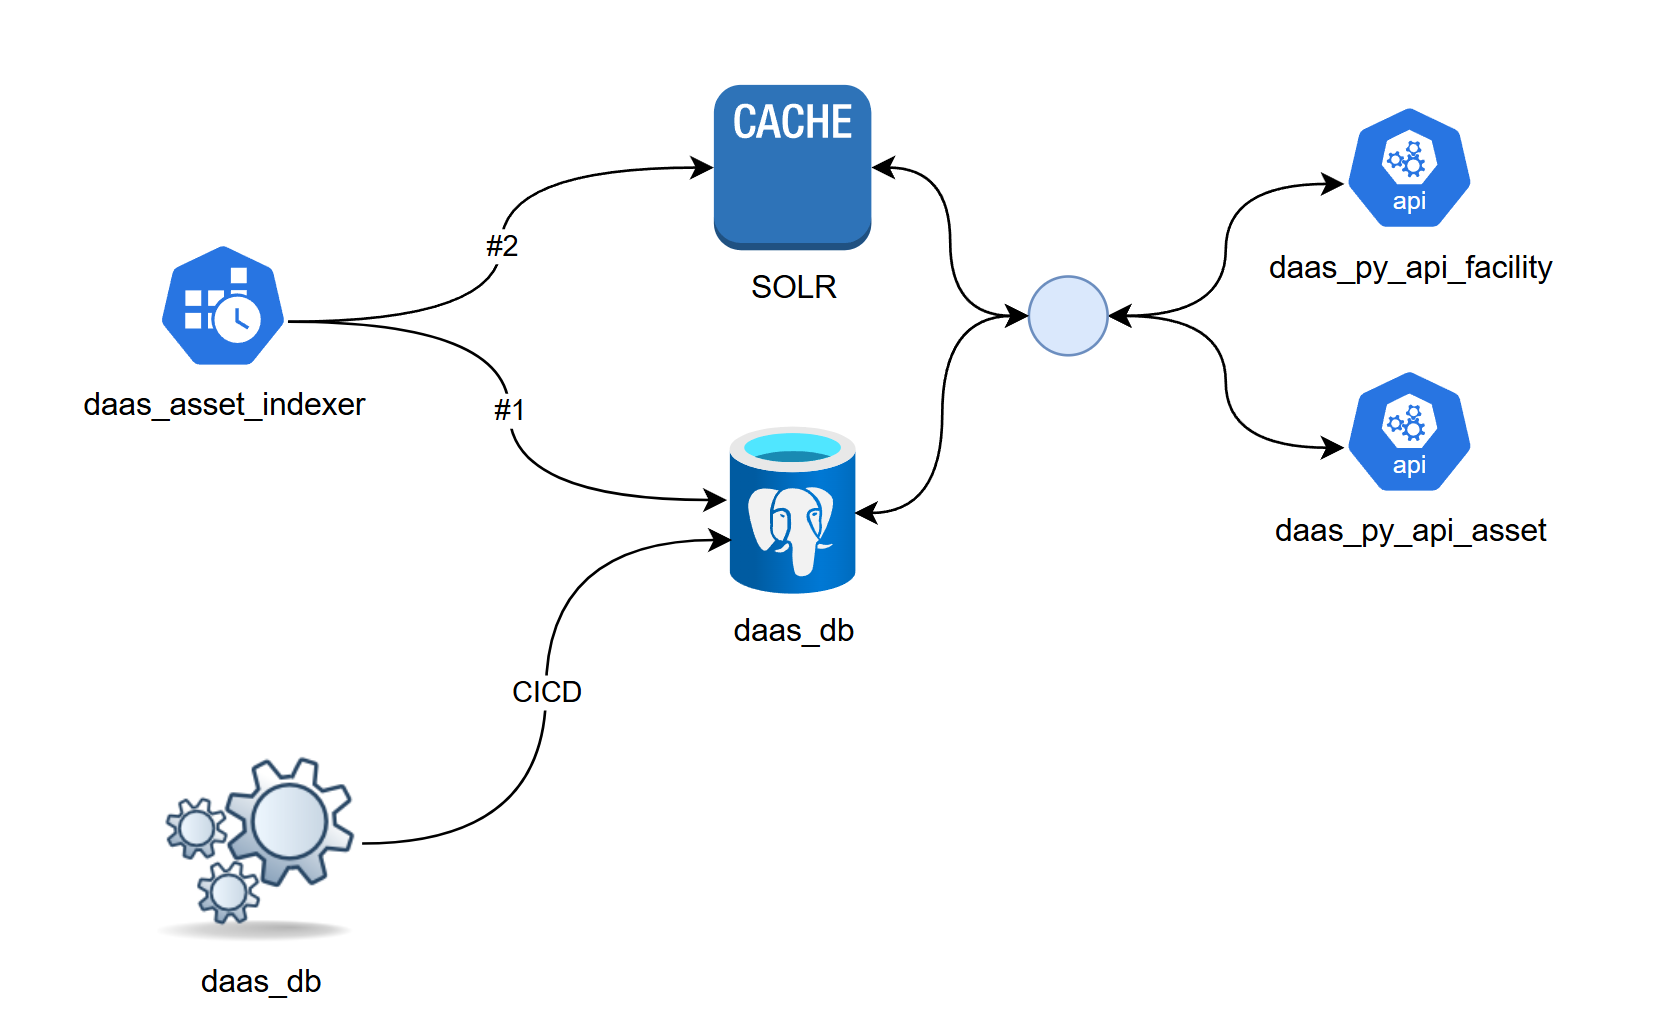
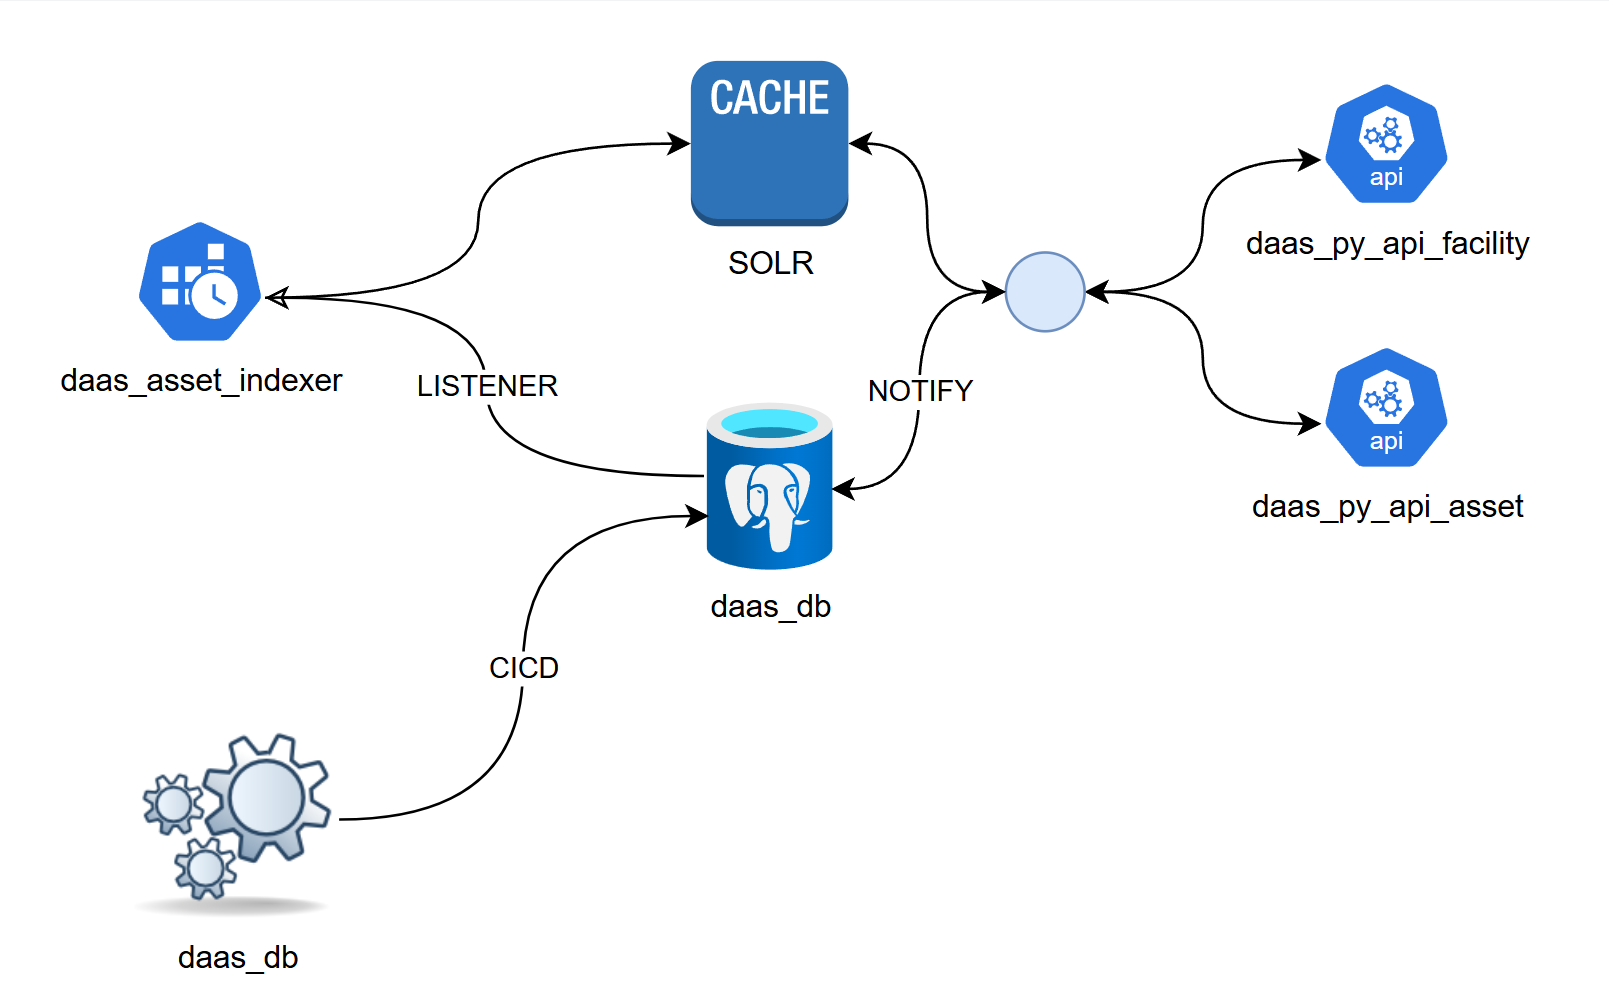
readme

diff --git a/README.md b/README.md
@@ -28,6 +28,16 @@ SOLR
 __API Layer:__  
 Python (Django)
 
+This layer will handle read/writes of objects.  When records are updated in the database, they will trigger a NOTIFY event; which is being listened by the index layer.
+
+__Index Layer:__ 
+Python
+
+This layer will listen to PostgreSQL NOTIFY events, and pull them off.  They will then be processed in batches of either quantity X or time Y.  This way we can control batching.  For example, process every 100 records or every 10 seconds.  Whichever comes first.
+
+[example](https://github.com/nealrout/daas_py_idx_asset/blob/main/main.py)
+
+
 __Common components:__  
 Logging: Python standarrd logger  
 Configuration:  dynaconf  
@@ -43,7 +53,8 @@ Secrets: dynaconf/cryptography
     ├───daas_py_api_asset        (ASSET API)
     │   ├───asset_api            
     │   │   ├───asset            
-    │   │   ├───asset_api        
+    │   │   ├───asset_api   
+    ├───daas_py_idx_asset        (ASSET INDEXER)
     ├───daas_py_common           (COMMON)
     │   ├───util                 
     ├───daas_py_config           (CONFIG)
